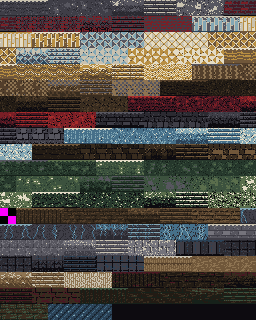
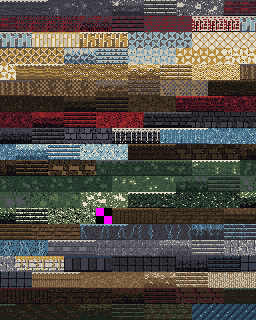
fix: art-mapping.json's civic-facade materials stop aliasing to plain walls
granite_facade/brick_facade/reman_facade had zero regions of their own in
content/art/custom/art-mapping.json, so atlas.cpp's own fallback silently
aliased all three back to their base material -- a civic building's
street-facing "pedimented colonnade" frontage rendered pixel-identical to a
plain wall.

gen_custom_tiles.py now emits a distinct face region per facade material
(a lighter/warmer ramp tint plus a genuine cornice+pilaster structural trim,
st_pediment_trim), filling the sheet's last 9 unused cells exactly (311+9=320
== 16x20). atlas.cpp's alias fallback is now conditional: it only fills a
face slot the pack itself left empty, so it can no longer clobber authored
facade art. Verified with a new regression test and a real screenshot (K21
Saltgate Watch-Post's facade reads distinctly against a plain neighbor).

diff --git a/tools/scripts/gen_custom_tiles.py b/tools/scripts/gen_custom_tiles.py
@@ -93,6 +93,11 @@ RAMPS = {
     "lightstone_shards":          ("N0", "V2", "V4", "B2"),
     "ice":                        ("C2", "C3", "C4", "B2"),
     "water":                      ("C1", "C2", "C3", "C4"),
+    # Facade materials: a grander/lighter tint step off their base material's own ramp, so a
+    # facade reads as distinct even before the pediment/pilaster structural trim is counted.
+    "granite_facade":             ("N0", "G2", "G3", "B1"),   # a shade lighter than granite
+    "brick_facade":               ("N0", "R2", "R3", "B1"),   # brighter red + pale coping
+    "reman_facade":               ("G3", "B1", "B2", "Y1"),   # warm travertine/gold cue
 }
 
 MATS = [
@@ -101,6 +106,15 @@ MATS = [
     "phorys", "reman_concrete", "steel", "thatch", "trudgeon_wood",
     "trudgeon_wood@getilia_soak",
 ]
+
+# The 3 civic-facade materials (content/raws/materials/{granite,brick,reman}_facade.json):
+# physical clones of their base material, minted purely as distinct art-resolution keys
+# (Art register FIFTH revision). Until now this pack had zero regions for them, so
+# atlas.cpp's own fallback silently aliased all three back to their plain base material --
+# a civic building's street-facing facade rendered pixel-identical to a plain wall. WALL-only
+# (a facade has no floor/ramp/stair of its own -- see facade_forms_json below), so they are
+# NOT in MATS/ROLE_VARIANTS' full 5-role sweep, just their own single "face" region.
+FACADE_MATS = ["granite_facade", "brick_facade", "reman_facade"]
 
 ROLE_VARIANTS = {"floor": 4, "face": 3, "top": 3, "ramp": 2, "stair": 2}
 
@@ -398,6 +412,36 @@ def st_running_bond(g, r, y0=2, y1=14, course_h=3):
             dline_h(g, r, ye + 1 if False else ye, 3, 0)  # no-op keeps stream stable
         yy = ye + 1
         ci += 1
+
+
+def st_pediment_trim(g, r, y0=2, y1=14, col_period=5):
+    """Facade materials' own distinct trim, layered on top of the base material's ordinary
+    coursing (rule: even a tint/pattern variant of the base .face region counts as distinct
+    -- this is a genuine pattern change, not just a tint). A light cornice/entablature band
+    just under the rim, plus regularly spaced fluted pilasters, is the cheapest pixel-legible
+    "grand civic frontage" cue -- the read a pedimented colonnade needs at 16px."""
+    dline_h(g, r, y0, 3, 100)
+    dline_h(g, r, y0 + 1, 3, 55)
+    off = r.rint(0, col_period - 1)
+    for x in range(off, T, col_period):
+        dline_v(g, r, x, 3, 85, y0 + 2, y1)
+        if x + 1 < T:
+            dline_v(g, r, x + 1, 0, 45, y0 + 2, y1)
+
+
+def st_granite_facade(g, r):
+    st_courses(g, r, y0=2, y1=14, course_h=4)
+    st_pediment_trim(g, r, col_period=5)
+
+
+def st_brick_facade(g, r):
+    st_running_bond(g, r, y0=2, y1=14)
+    st_pediment_trim(g, r, col_period=4)
+
+
+def st_reman_facade(g, r):
+    st_courses(g, r, y0=2, y1=14, course_h=5, joint_pct=55, mid_pct=20)
+    st_pediment_trim(g, r, col_period=6)
 
 
 def st_strata(g, r, y0=0, y1=15, gap=(3, 4), line_idx=0, amp=1, pct=70):
@@ -940,6 +984,20 @@ MOTIFS = {
         face=st_ice_face,
         face_d=dt_glints(n=3, noise=4),
     ),
+    # Facade materials: WALL-only (see FACADE_MATS above) -- no floor/ramp/stair/top entries,
+    # so only "face" and "face_d" are ever read for these three.
+    "granite_facade": dict(
+        face=st_granite_facade,
+        face_d=dt_stone(chips=2, cracks=1, noise=6),
+    ),
+    "brick_facade": dict(
+        face=st_brick_facade,
+        face_d=dt_noise(7, 1, 2),
+    ),
+    "reman_facade": dict(
+        face=st_reman_facade,
+        face_d=dt_stone(chips=2, cracks=1, noise=10),
+    ),
 }
 
 
@@ -1035,6 +1093,8 @@ def region_inventory():
             inv[f"{m}.face.a{b}"] = ("face", m, f"{m}#a{b}", 3)
             inv[f"{m}.floor.a{b}"] = ("floor", m, f"{m}#a{b}", 4)
             inv[f"{m}.top.a{b}"] = ("top", m, f"{m}#a{b}", 3)
+    for m in FACADE_MATS:
+        inv[f"{m}.face"] = ("face", m, m, ROLE_VARIANTS["face"])
     inv["water"] = ("water", None, "water", 4)
     inv["missing"] = ("missing", None, None, 1)
     return inv
@@ -1116,7 +1176,10 @@ def build_sheet():
             rendered[(col, row)] = (name, vi, None if is_rgb else g)
             idx += 1
         cells[name] = coords
-    assert idx == 311, f"expected 311 cells, packed {idx}"
+    # 311 base cells + 9 facade cells (3 materials x ROLE_VARIANTS["face"]=3) = 320, which is
+    # exactly COLS*ROWS -- the facade regions land in the sheet's last remaining cells with no
+    # resize needed.
+    assert idx == 320, f"expected 320 cells, packed {idx}"
     return img, cells, names, inv, rendered
 
 
@@ -1140,6 +1203,16 @@ def material_forms_json(m):
     return lines
 
 
+def facade_forms_json(m):
+    """Facade materials are WALL-only -- block/wall forms pointing at the facade's own
+    region, no floor/ramp/stair (they never appear as floor/ramp/stair, only as a wall a
+    building's frontage is built from)."""
+    lines = []
+    lines.append('        "block": { "byAppearance": ["%s.face"] },' % m)
+    lines.append('        "wall":  { "byAppearance": ["%s.face"] }' % m)
+    return lines
+
+
 def jarr(strings):
     return "[" + ", ".join('"%s"' % s for s in strings) + "]"
 
@@ -1159,7 +1232,10 @@ def write_mapping(cells, names):
       "ruling 5, an overlay tint not a sheet pixel); glowstone.minLight kept. The wall form "
       "key deliberately duplicates block: block is JsonTileArtResolver's DEFAULT_FORM "
       "fallback and the safest default for unknown future forms. <mat>.top regions are on the "
-      'sheet but unmapped - reserved inventory (legal per TILE-ART-SPEC section 7.2).",')
+      "sheet but unmapped - reserved inventory (legal per TILE-ART-SPEC section 7.2). The "
+      "3 civic-facade materials (granite_facade/brick_facade/reman_facade) are WALL-only: "
+      "block/wall forms only, no floor/ramp/stair -- each carries its own distinct pediment/"
+      'pilaster-trimmed face region rather than aliasing its base material.",')
     a('  "atlas": "art/custom/tiles.png",')
     a('  "tilePx": 16,')
     a('  "sheet": { "columns": %d, "rows": %d },' % (COLS, ROWS))
@@ -1174,16 +1250,20 @@ def write_mapping(cells, names):
         a('    "%s": [%s]%s' % (name, pairs, comma))
     a("  },")
     a('  "materials": {')
-    for i, m in enumerate(MATS):
+    all_mats = MATS + FACADE_MATS
+    for i, m in enumerate(all_mats):
         a('    "%s": {' % m)
         if m == "chromatis":
             a('      "heatGlowTint": "#E8842A",')
         if m == "glowstone":
             a('      "minLight": 8,')
         a('      "forms": {')
-        out.extend(material_forms_json(m))
+        if m in FACADE_MATS:
+            out.extend(facade_forms_json(m))
+        else:
+            out.extend(material_forms_json(m))
         a("      }")
-        a("    }" + ("," if i < len(MATS) - 1 else ""))
+        a("    }" + ("," if i < len(all_mats) - 1 else ""))
     a("  },")
     a('  "fluids": {')
     a('    "water": { "region": "water", "depthAlphaQ8": [0, 96, 120, 144, 168, 192, 216, 240] }')
@@ -1208,8 +1288,8 @@ def validate(img, cells, names, inv, rendered):
                 errors.append(f"off-palette pixel at ({x},{y}): {px[x, y]}")
                 break
     total = sum(len(v) for v in cells.values())
-    if total != 311:
-        errors.append(f"cell count {total} != 311")
+    if total != 320:
+        errors.append(f"cell count {total} != 320")
     # per-cell rules
     for (col, row), (name, vi, g) in sorted(rendered.items(),
                                             key=lambda kv: (kv[0][1], kv[0][0])):

diff --git a/native/tests/test_atlas.cpp b/native/tests/test_atlas.cpp
@@ -93,8 +93,9 @@ TEST_CASE("the owner's art pack loads when it is there") {
     // renderer is being tested against its own fallback.
     REQUIRE(atlas.fromAuthoredArt());
 
-    // 109 authored regions covering 19 materials; every region is at least one
-    // tile and several carry animation variants, so the store is well over 100.
+    // 112 authored regions covering 22 materials (19 base + the 3 civic-facade materials,
+    // each with its own distinct wall region -- see atlas.cpp's load()); every region is at
+    // least one tile and several carry animation variants, so the store is well over 100.
     CHECK(atlas.tileCount() > 100);
     CHECK(atlas.lightTintQ8().size() == 32);
     CHECK(atlas.lightTintQ8().front() == 36);
@@ -107,8 +108,10 @@ TEST_CASE("the owner's art pack loads when it is there") {
         for (std::size_t f = 0; f < kFaceKindCount; ++f) {
             CAPTURE(std::string(materialIds()[m]));
             CAPTURE(f);
-            // Including the three facade materials, which carry no art of their
-            // own and are aliased to the material they face.
+            // Including the three facade materials, which now carry their own distinct
+            // Side/BlockTop wall art (a pediment/pilaster-trimmed region, not their base
+            // material's); their FloorTop/RampTop/StairTop still alias to the base material
+            // they face, since a facade is never authored as a floor/ramp/stair.
             REQUIRE(atlas.tileFor(m, static_cast<FaceKind>(f), 0) != missing);
         }
     }
@@ -125,4 +128,45 @@ TEST_CASE("the owner's art pack loads when it is there") {
     std::sort(distinct.begin(), distinct.end());
     distinct.erase(std::unique(distinct.begin(), distinct.end()), distinct.end());
     CHECK(distinct.size() > 2);
+}
+
+TEST_CASE("the three facade materials carry their own art, not their base material's") {
+    // Regression test for the bug this task fixed: art-mapping.json used to have zero
+    // regions for granite_facade/brick_facade/reman_facade, so atlas.cpp's own fallback
+    // silently aliased their Side (wall) art to their base material -- a civic building's
+    // "pedimented-colonnade" street frontage rendered pixel-identical to a plain wall, with
+    // nothing here to catch a regression back to that state.
+    const TileAtlas atlas = TileAtlas::load(granadad::content::contentDir());
+    REQUIRE(atlas.fromAuthoredArt());
+
+    // kMaterialIds is sorted; see atlas.cpp's kMaterialIds literal for these positions.
+    struct Pair {
+        std::uint16_t facade;
+        std::uint16_t base;
+        const char* name;
+    };
+    const Pair pairs[] = {
+        {2, 1, "brick_facade vs brick"},
+        {9, 8, "granite_facade vs granite"},
+        {17, 16, "reman_facade vs reman_concrete"},
+    };
+    for (const Pair& p : pairs) {
+        CAPTURE(p.name);
+        const std::size_t facadeTile = atlas.tileFor(p.facade, FaceKind::Side, 0);
+        const std::size_t baseTile = atlas.tileFor(p.base, FaceKind::Side, 0);
+        // Not just a different tile index -- genuinely different pixels, so a future
+        // regression that re-aliases the facade onto its base (same average colour, same
+        // texture) would fail this even if it kept the tile counts looking plausible.
+        CHECK(facadeTile != baseTile);
+        bool anyTexelDiffers = false;
+        for (int v = 0; v < TileAtlas::kTilePx && !anyTexelDiffers; ++v) {
+            for (int u = 0; u < TileAtlas::kTilePx; ++u) {
+                if (atlas.texelRaw(facadeTile, u, v) != atlas.texelRaw(baseTile, u, v)) {
+                    anyTexelDiffers = true;
+                    break;
+                }
+            }
+        }
+        CHECK(anyTexelDiffers);
+    }
 }

diff --git a/native/src/render/atlas.cpp b/native/src/render/atlas.cpp
@@ -365,9 +365,14 @@ TileAtlas TileAtlas::load(const std::filesystem::path& contentDir) {
         }
     }
 
-    // The three facade materials carry no art of their own; the pack's own
-    // notes say so. Point them at the material they face, which is what a
-    // facade IS, rather than at the missing-texture chequer.
+    // Historically the three facade materials carried no art of their own, so this aliased
+    // them onto the material they face -- what a facade IS, absent anything better. The pack
+    // now carries its own distinct pediment/pilaster-trimmed region per facade material (see
+    // art-mapping.json's "materials" entries and its notes field), bound by the loop above
+    // exactly like any other material. This alias is therefore now a FALLBACK ONLY: it must
+    // never clobber a face slot the pack itself already filled, or a future authored facade
+    // sprite would render as its plain base material with nothing to catch the regression --
+    // silently the same bug this whole fix exists to close.
     const auto alias = [&atlas](std::string_view facade, std::string_view base) {
         std::size_t facadeIndex = kMaterialCount;
         std::size_t baseIndex = kMaterialCount;
@@ -383,7 +388,9 @@ TileAtlas TileAtlas::load(const std::filesystem::path& contentDir) {
             return;
         }
         for (std::size_t f = 0; f < kFaceKindCount; ++f) {
-            atlas.byMaterialFace_[facadeIndex][f] = atlas.byMaterialFace_[baseIndex][f];
+            if (atlas.byMaterialFace_[facadeIndex][f].empty()) {
+                atlas.byMaterialFace_[facadeIndex][f] = atlas.byMaterialFace_[baseIndex][f];
+            }
         }
     };
     alias("brick_facade", "brick");
